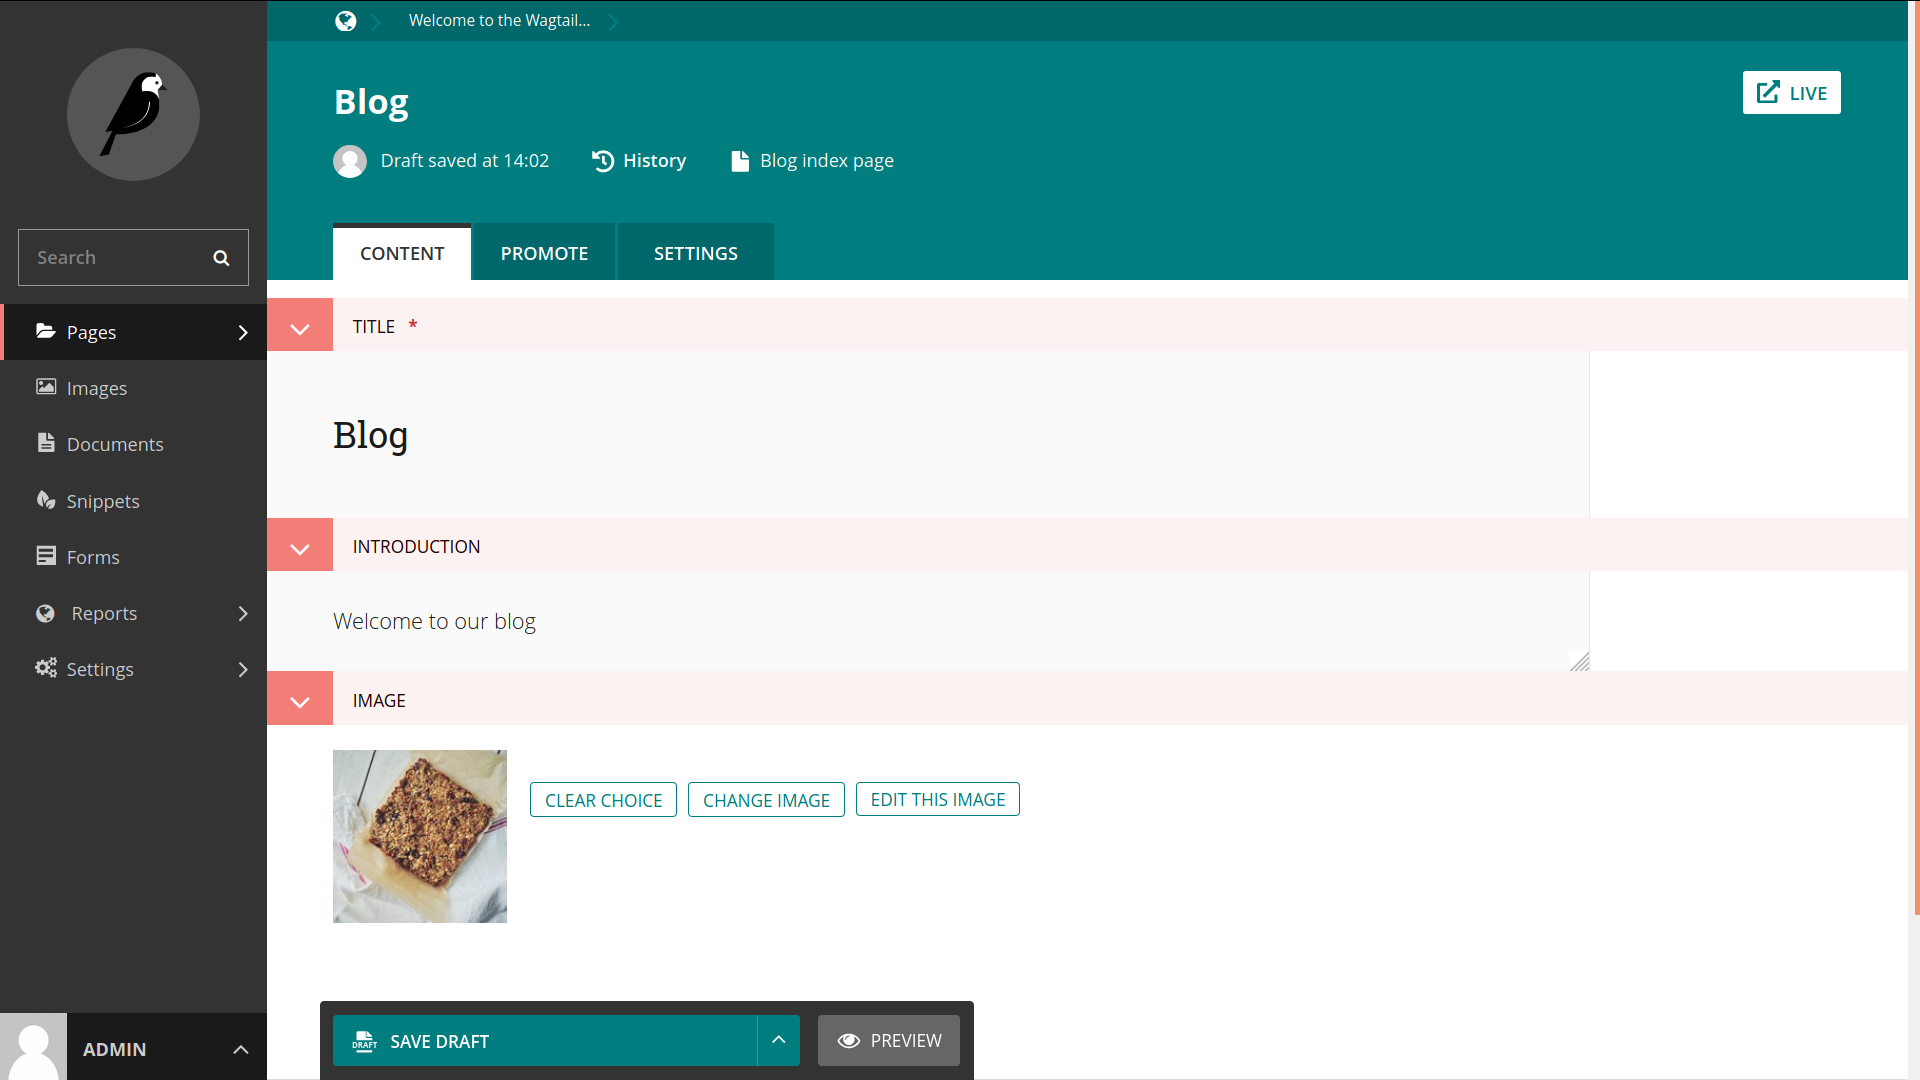
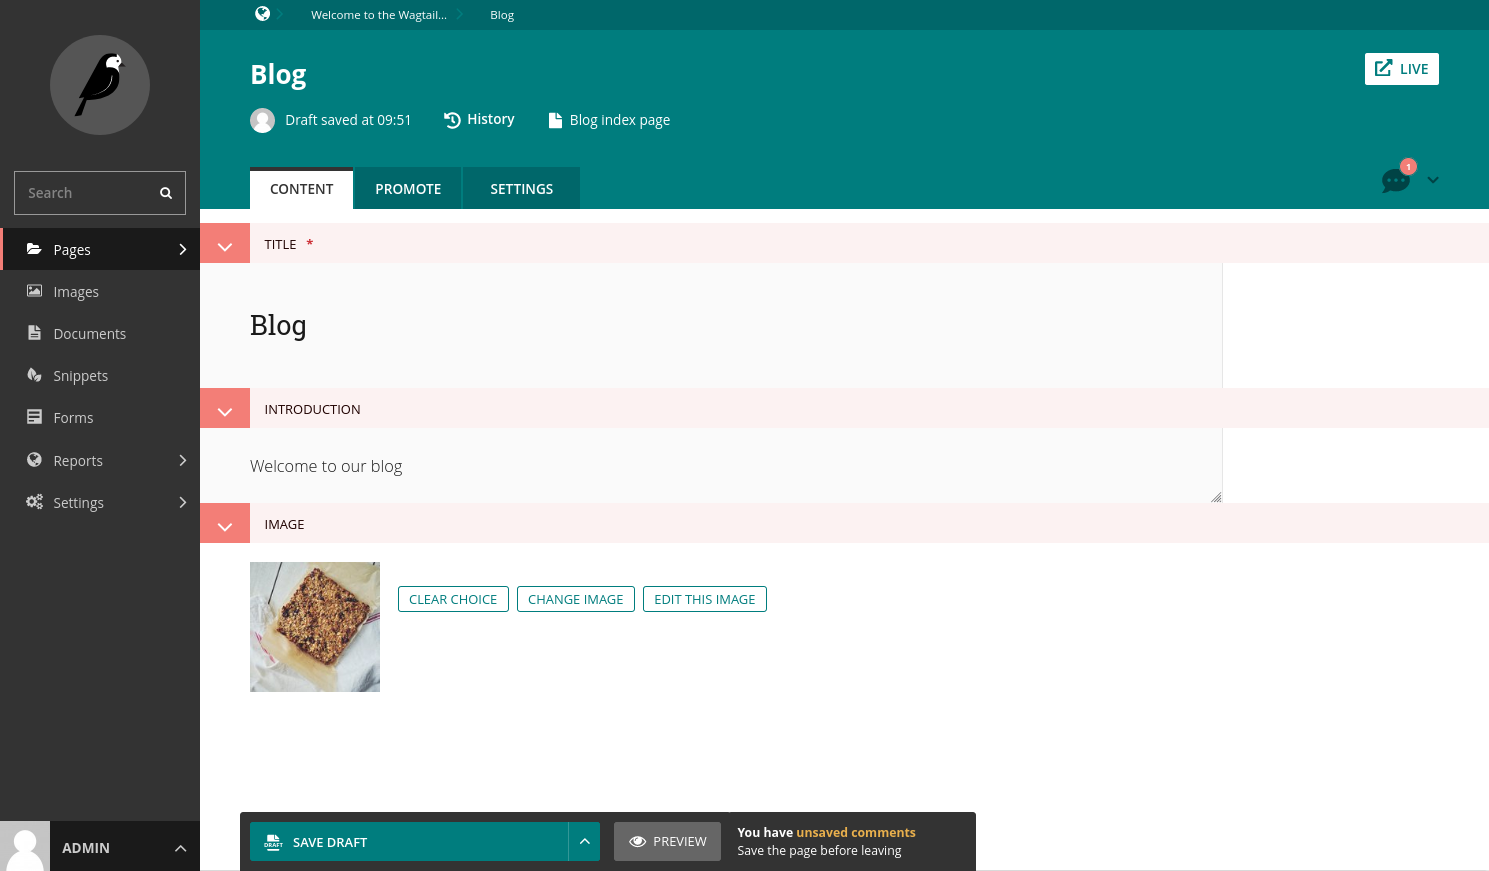
Add documentation for commenting

Changed region(s): [[0.0, 0.0, 1.0, 1.0], [0.2163, 0.0, 0.3089, 0.031], [0.0309, 0.62, 0.0618, 0.651]]

diff --git a/docs/reference/pages/model_reference.rst b/docs/reference/pages/model_reference.rst
@@ -1031,3 +1031,147 @@ Database fields
         (foreign key to :class:`PageRevision`)
 
         A foreign key to the current page revision.
+
+
+
+``Comment``
+===========
+
+Represents a comment on a page.
+
+Database fields
+~~~~~~~~~~~~~~~
+
+.. class:: Comment
+
+    .. attribute:: page
+
+        (parental key to :class:`Page`)
+
+        A parental key to the page the comment has been added to.
+
+    .. attribute:: user
+
+        (foreign key to user model)
+
+        A foreign key to the user who added this comment.
+
+    .. attribute:: text
+
+        (text)
+
+        The text content of the comment.
+
+    .. attribute:: contentpath
+
+        (text)
+
+        The path to the field or streamfield block the comment is attached to,
+        in the form ``field`` or ``field.streamfield_block_id``.
+
+    .. attribute:: position
+
+        (text)
+
+        An identifier for the position of the comment within its field. The format
+        used is determined by the field.
+
+    .. attribute:: created_at
+
+        (date/time)
+
+        The date/time when the comment was created.
+
+    .. attribute:: updated_at
+
+        (date/time)
+
+        The date/time when the comment was updated.
+
+    .. attribute:: revision_created
+
+        (foreign key to :class:`PageRevision`)
+
+        A foreign key to the revision on which the comment was created.
+
+    .. attribute:: resolved_at
+
+        (date/time)
+
+        The date/time when the comment was resolved, if any.
+
+    .. attribute:: resolved_by
+
+        (foreign key to user model)
+
+        A foreign key to the user who resolved this comment, if any.
+
+
+
+``CommentReply``
+================
+
+Represents a reply to a comment thread.
+
+Database fields
+~~~~~~~~~~~~~~~
+
+.. class:: CommentReply
+
+    .. attribute:: comment
+
+        (parental key to :class:`Comment`)
+
+        A parental key to the comment that started the thread.
+
+    .. attribute:: user
+
+        (foreign key to user model)
+
+        A foreign key to the user who added this comment.
+
+    .. attribute:: text
+
+        (text)
+
+        The text content of the comment.
+
+    .. attribute:: created_at
+
+        (date/time)
+
+        The date/time when the comment was created.
+
+    .. attribute:: updated_at
+
+        (date/time)
+
+        The date/time when the comment was updated.
+
+
+
+``PageSubscription``
+====================
+
+Represents a user's subscription to email notifications about page events.
+Currently only used for comment notifications.
+
+Database fields
+~~~~~~~~~~~~~~~
+
+.. class:: PageSubscription
+
+    .. attribute:: page
+
+        (parental key to :class:`Page`)
+
+    .. attribute:: user
+
+        (foreign key to user model)
+
+    .. attribute:: comment_notifications
+
+        (boolean)
+
+        Whether the user should receive comment notifications for all comments,
+        or just comments in threads they participate in.

diff --git a/docs/editor_manual/editing_existing_pages.rst b/docs/editor_manual/editing_existing_pages.rst
@@ -12,6 +12,7 @@ Here is how you can access the edit screen of an existing page:
 * When editing an existing page the title of the page being edited is displayed at the top of the page.
 * Underneath the title, you can find the page type and a link to the page history.
 * If published, a link to the live version of the page is shown on the top right.
+* You can toggle commenting mode by clicking the icon in the top right, which also shows the number of comments.
 * You can change the title of the page by clicking into the title field.
 * When you're typing into a field, help text is often displayed on the right-hand side of the screen.
 
@@ -27,3 +28,46 @@ show more information about the page's progress through the workflow, as well as
 If you can perform moderation actions (for example, approval or requesting changes) on the current task, you'll see additional options in the
 action menu at the bottom of the page.
 
+.. _commenting:
+
+Commenting
+__________
+
+Use the comment icon at the top right to enable commenting mode. If there are comments on the page, the number
+of comments is shown alongside the icon.
+
+When in commenting mode, hovering over a commentable field or block will reveal a comment button.
+
+.. image:: ../_static/images/screen49_new_comment_icon.png
+
+If there is no pre-existing comment on the field, you can use this to create a new comment.
+
+.. image:: ../_static/images/screen52_new_comment.png
+
+If there is an existing comment, clicking either the field button or the comment will bring the comment thread into focus, allowing you to
+add new replies.
+
+.. image:: ../_static/images/screen48_comment_thread.png
+
+Within a rich text field, you can highlight text and click the comment button to add an inline comment.
+
+.. image:: ../_static/images/screen51_draftail_comment.png
+
+All of these actions can also be performed using the comment shortcut, ``Ctrl + Alt + M`` / ``⌘ + Alt + M``.
+
+Clicking the three dots in the top right of an existing comment will open its menu. This allows you to
+resolve a comment, as well as to edit or delete any of your own comments.
+
+.. image:: ../_static/images/screen50_comment_menu.png
+
+Any comments or changes to comments will only be saved when the page is saved.
+
+.. note:: Currently, fields inside ``InlinePanels`` and ``ListBlocks`` are uncommentable.
+
+The arrow to the right of the comments icon shows the comment notifications
+panel, where you can enable or disable email notifications for other users' comments on the page.
+
+.. image:: ../_static/images/screen53_commenting_notifications.png
+
+.. note:: You will always receive email notifications for threads you are part of, unless you opt out of all comment notifications in your
+        account settings.

diff --git a/docs/reference/pages/panels.rst b/docs/reference/pages/panels.rst
@@ -15,7 +15,7 @@ Here are some Wagtail-specific types that you might include as fields in your mo
 FieldPanel
 ~~~~~~~~~~
 
-.. class:: FieldPanel(field_name, classname=None, widget=None, heading='')
+.. class:: FieldPanel(field_name, classname=None, widget=None, heading='', disable_comments=False)
 
     This is the panel used for basic Django field types.
 
@@ -38,6 +38,10 @@ FieldPanel
     .. attribute:: FieldPanel.heading (optional)
 
         This allows you to override the heading for the panel, which will otherwise be set automatically using the form field's label (taken in turn from a model field's ``verbose_name``).
+
+    .. attribute:: FieldPanel.disable_comments (optional)
+
+        This allows you to prevent a field level comment button showing for this panel if set to ``True`` (see :ref:`commenting`).
 
 StreamFieldPanel
 ~~~~~~~~~~~~~~~~

diff --git a/docs/releases/2.13.rst b/docs/releases/2.13.rst
@@ -29,7 +29,7 @@ This module was contributed by Coen van der Kamp.
 Commenting
 ~~~~~~~~~~
 
-The page editor now supports leaving comments on fields and StreamField blocks, by entering commenting mode (using the button in the top right of the editor). Inline comments are available in rich text fields using the Draftail editor.
+The page editor now supports :ref:`leaving comments on fields and StreamField blocks <commenting>`, by entering commenting mode (using the button in the top right of the editor). Inline comments are available in rich text fields using the Draftail editor.
 
 This feature was developed by Jacob Topp-Mugglestone, Karl Hobley and Simon Evans and sponsored by `The Motley Fool <https://www.fool.com/>`_.
 
